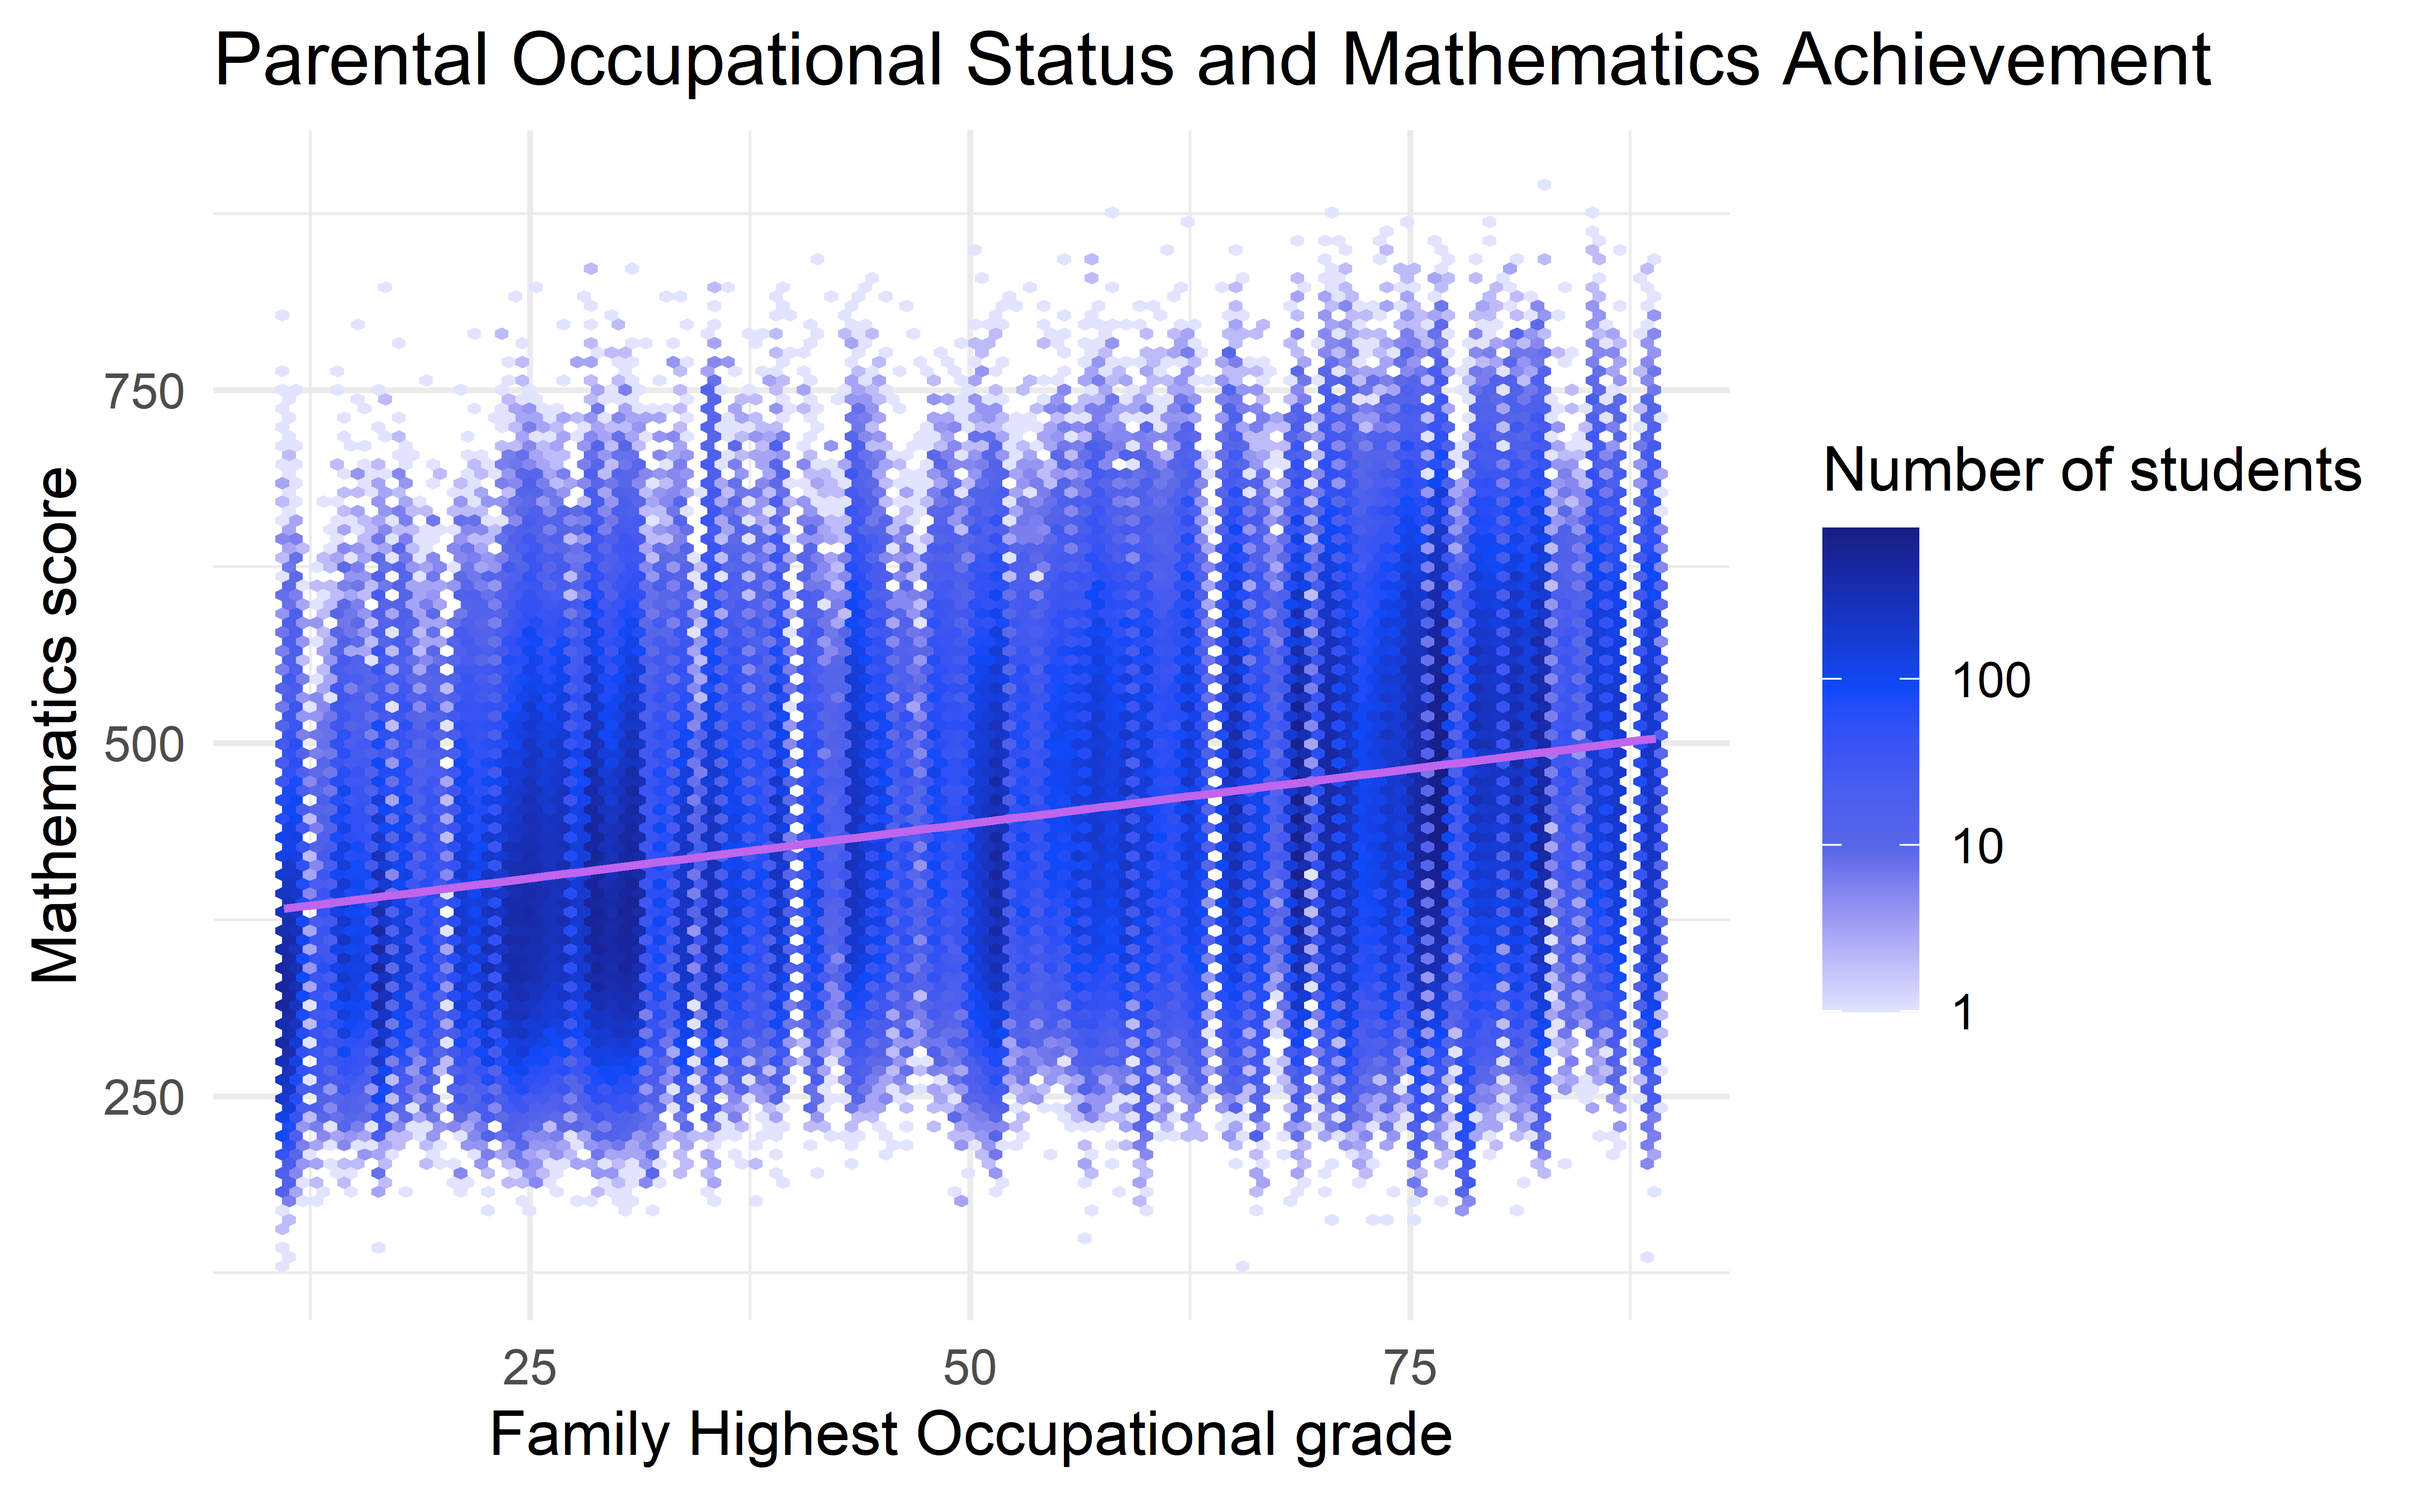
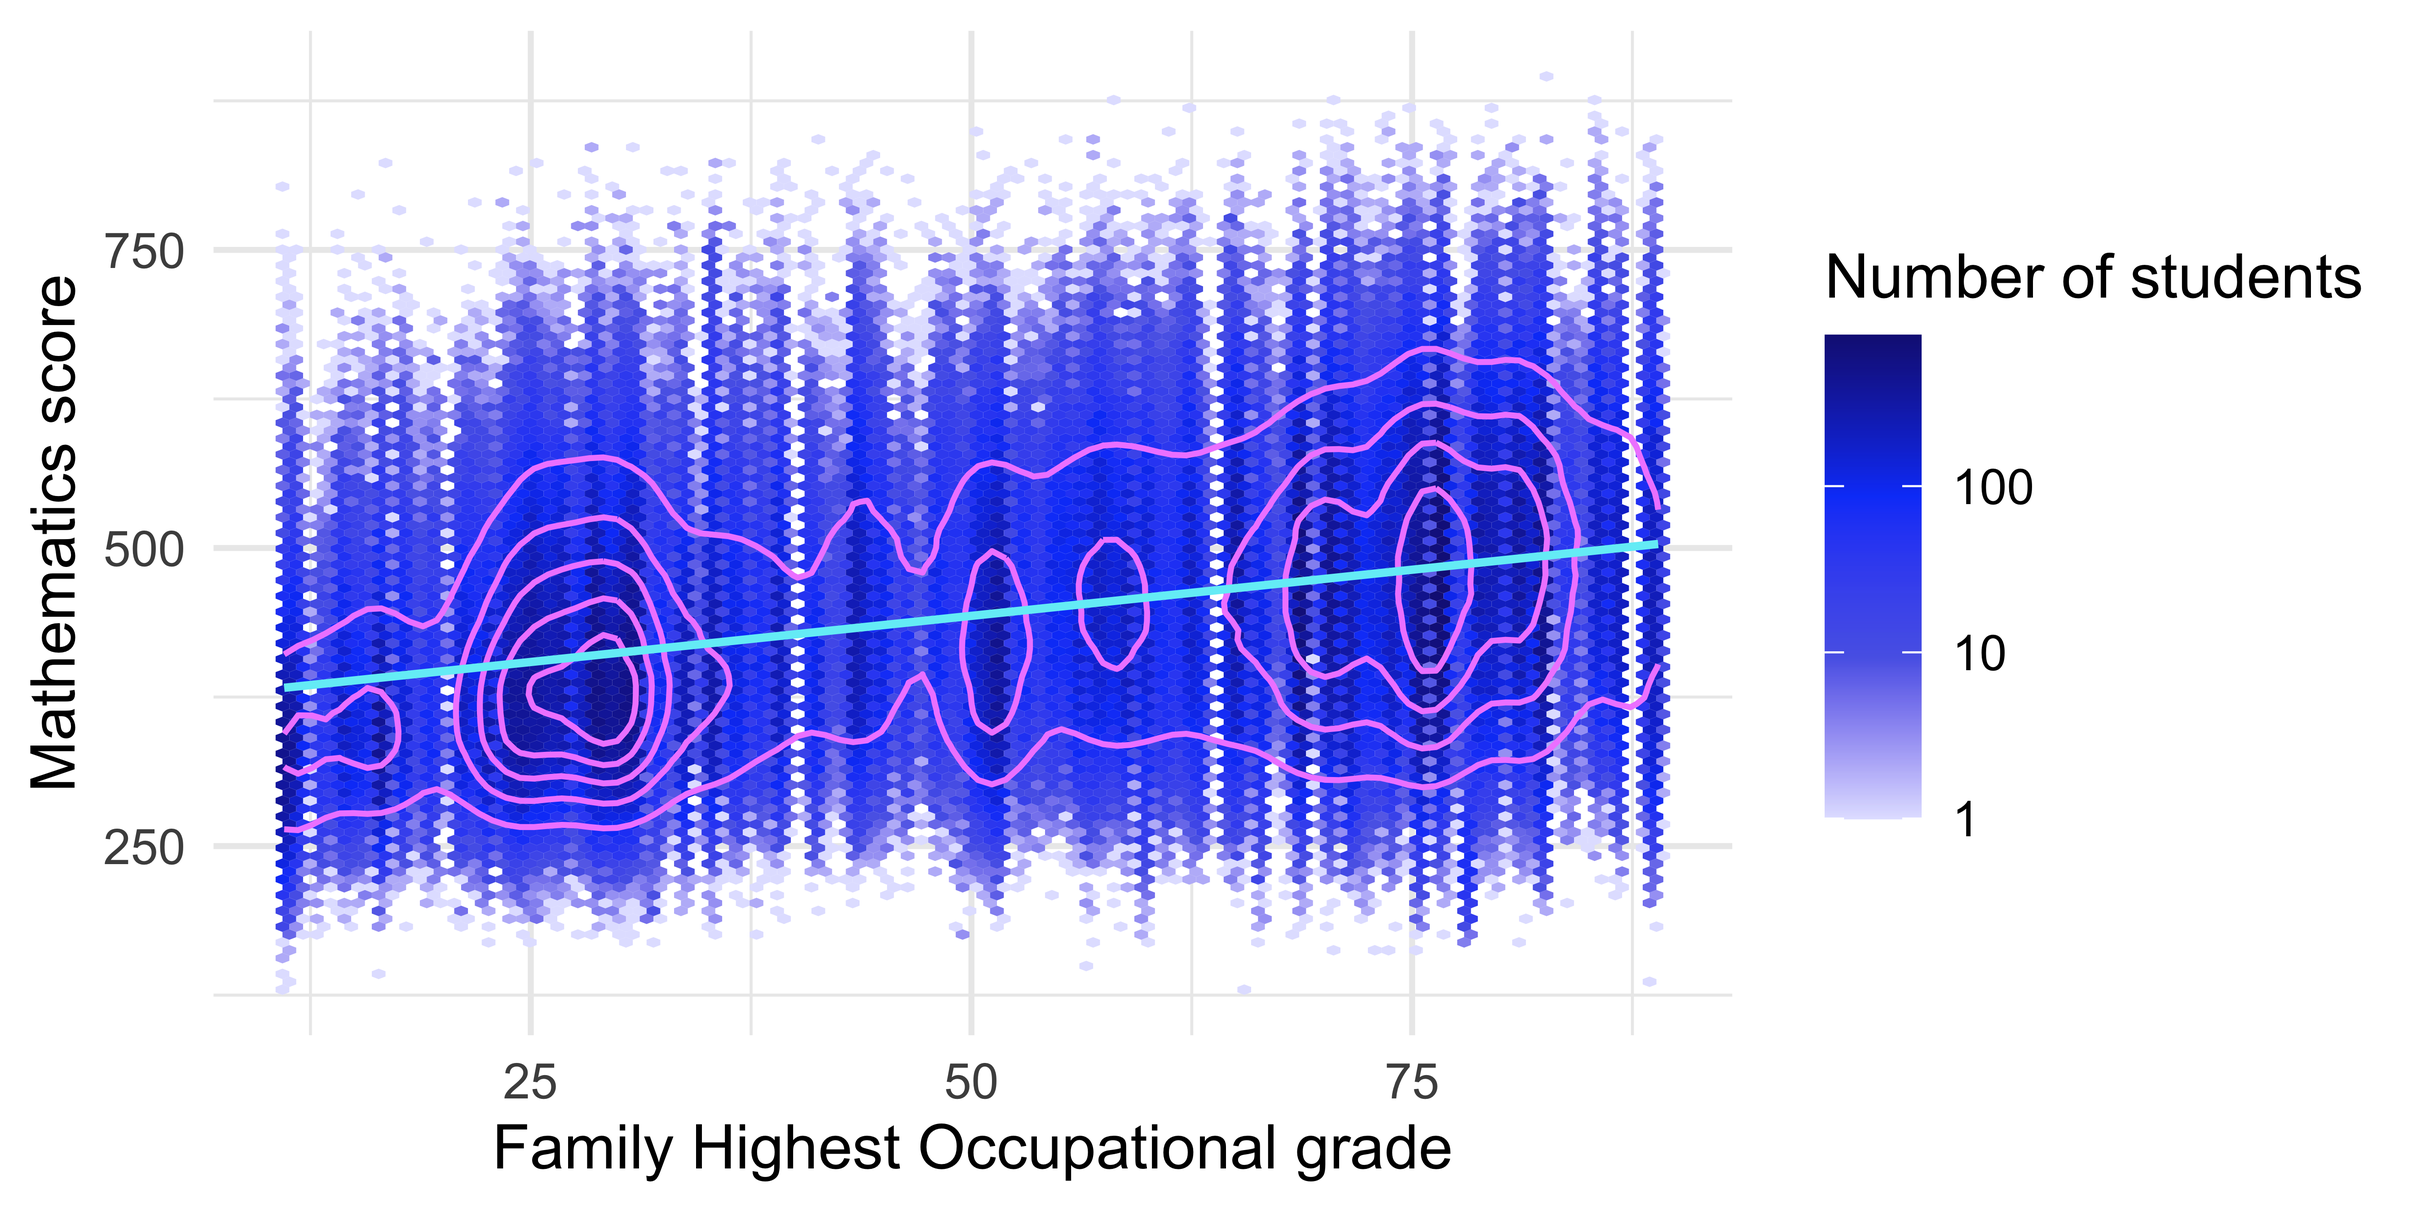
Finished visualisation slides 1-4
Changed numbers in summaries to match the data: slide 1 peak 400-450 to "just below 400", slide 2 median 450 to 470, slide 4 peak ICT = 0.5 to 0.9.

diff --git a/presentation.html b/presentation.html
@@ -63,6 +63,30 @@ class: center, middle, inverse, title-slide
 .beta h1 {
   margin-bottom: 0.2em;
 }
+.plot-l {
+  float: left;
+  width: 70%;
+}
+.note-r {
+  float: right;
+  width: 28%;
+  position: relative;
+  left: +0.9em;
+}
+.note-r + * {
+  clear: both;
+}
+.note-r p {
+  margin-bottom: 1.5em;
+}
+.gap {
+  display: block;
+  margin-top: 0.9em;
+}
+.gap2 {
+  display: block;
+  margin-top: 2em;
+}
 &lt;/style&gt;
 
 # Outline
@@ -126,24 +150,59 @@ class: alpha
 # Overall mathematics performance
 &lt;img src="presentation_files/figure-html/Visualising-overall-1.png" alt="" width="80%" /&gt;
 
-Summary: Scores range from about 150 to 800, with a peak of about 45,000 students just below 400. The score distribution is roughly bell-shaped and symmetric, with most students clustered around the middle score range.
+Summary: Scores range from about 150 to 800, with a mean of 432.5 and a peak of about 45,000 students just below 400. The score distribution is roughly bell-shaped and symmetric, with most students clustered around the middle score range.
 
 ---
 class: alpha, beta
 
 # Parental education and maths score
-
+.gap[
 &lt;img src="presentation_files/figure-html/parental-education-1.png" alt="" width="80%" /&gt;
-
-Summary: Higher parental education years shift the score distribution upward; median maths score rises steadily from about 350 to 470, but within-group spread remains large.
-
----
-
-&lt;img src="presentation_files/figure-html/unnamed-chunk-3-1.png" alt="" width="80%" /&gt;
+]
+.gap[Summary: Higher parental education years shift the score distribution upward; median maths score rises steadily from about 350 to 470, but within-group spread remains large.]
 
 ---
 
-&lt;img src="presentation_files/figure-html/unnamed-chunk-4-1.png" alt="" width="80%" /&gt;
+class: alpha, beta
+
+# Parental occupational status and mathematics score
+
+.plot-l[
+&lt;img src="presentation_files/figure-html/unnamed-chunk-3-1.png" alt="" width="100%" /&gt;
+]
+
+.note-r[&lt;br&gt;
+.gap[**Pink contours**&lt;br&gt;
+.gap[Where students are most concentrated]
+.gap[Inner rings show higher density]]
+
+.gap2[**Cyan line**&lt;br&gt;
+.gap[Linear trend]]
+]
+
+&lt;br&gt;Summary: A weak positive trend appears — higher occupational status tends to pair with slightly higher scores — but scores spread widely at every status level, and the densest cluster sits in the middle range.
+
+---
+
+class: alpha, beta
+
+# Home ICT resources and mathematics score
+.plot-l[.gap2[
+&lt;img src="presentation_files/figure-html/unnamed-chunk-4-1.png" alt="" width="100%" /&gt;
+]]
+
+.note-r[&lt;br&gt;
+.gap[**Pink points**&lt;br&gt;
+.gap[Mean score in each narrow ICT interval]]
+
+.gap2[**Blue line**&lt;br&gt;
+.gap[Smoothed trend]]
+
+.gap2[**Purple dot**&lt;br&gt;
+.gap[Peak, ICT ≈ 0.9]]
+]
+
+.gap2[Summary: The relationship is an inverted-U: average scores rise to a peak near ICT = 0.9, then slowly decline, so extra ICT beyond this level no longer links to higher scores.]
 ---
 
 class: inverse, center, middle

diff --git a/xaringan-themer.css b/xaringan-themer.css
@@ -38,7 +38,7 @@
   --text-font-size: 1rem;
   --code-font-size: 0.9rem;
   --code-inline-font-size: 1em;
-  --header-h1-font-size: 2.75rem;
+  --header-h1-font-size: 2rem;
   --header-h2-font-size: 2.25rem;
   --header-h3-font-size: 1.75rem;
 
